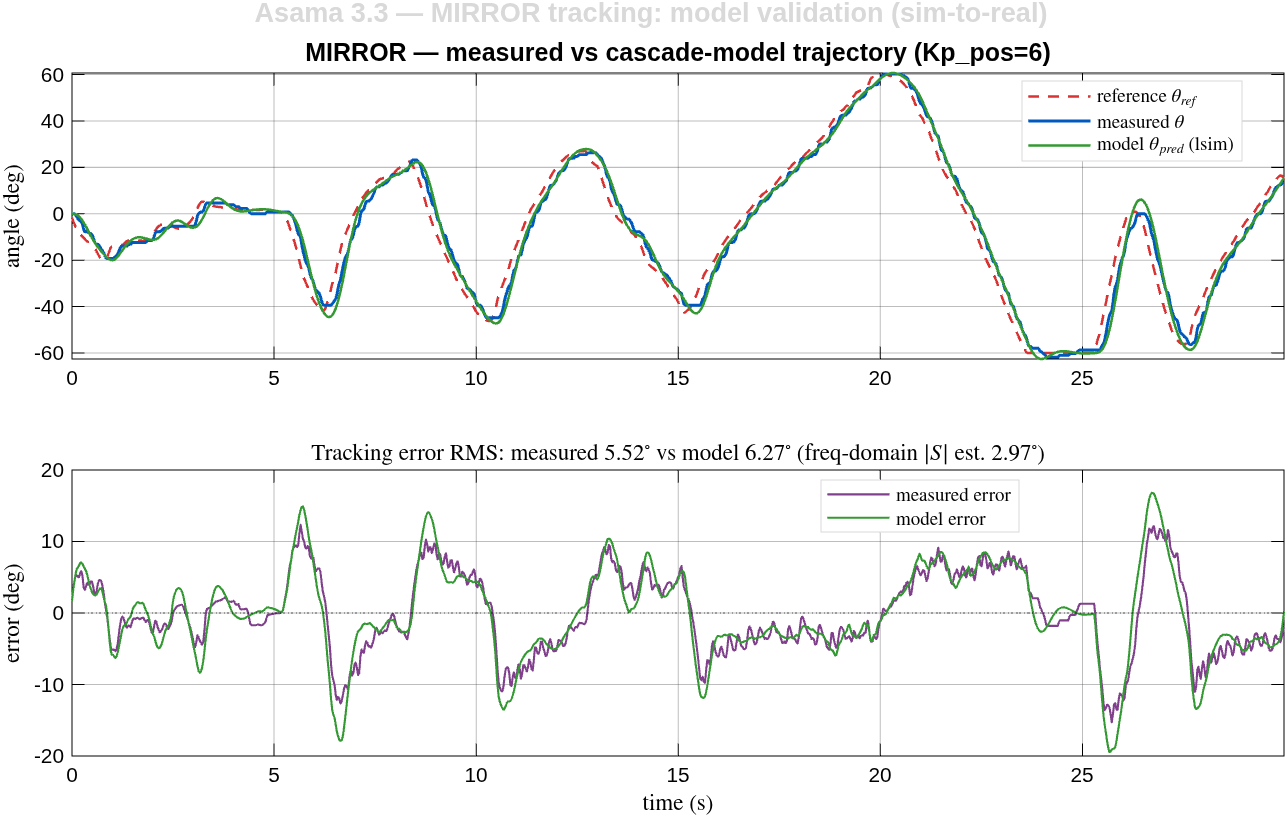
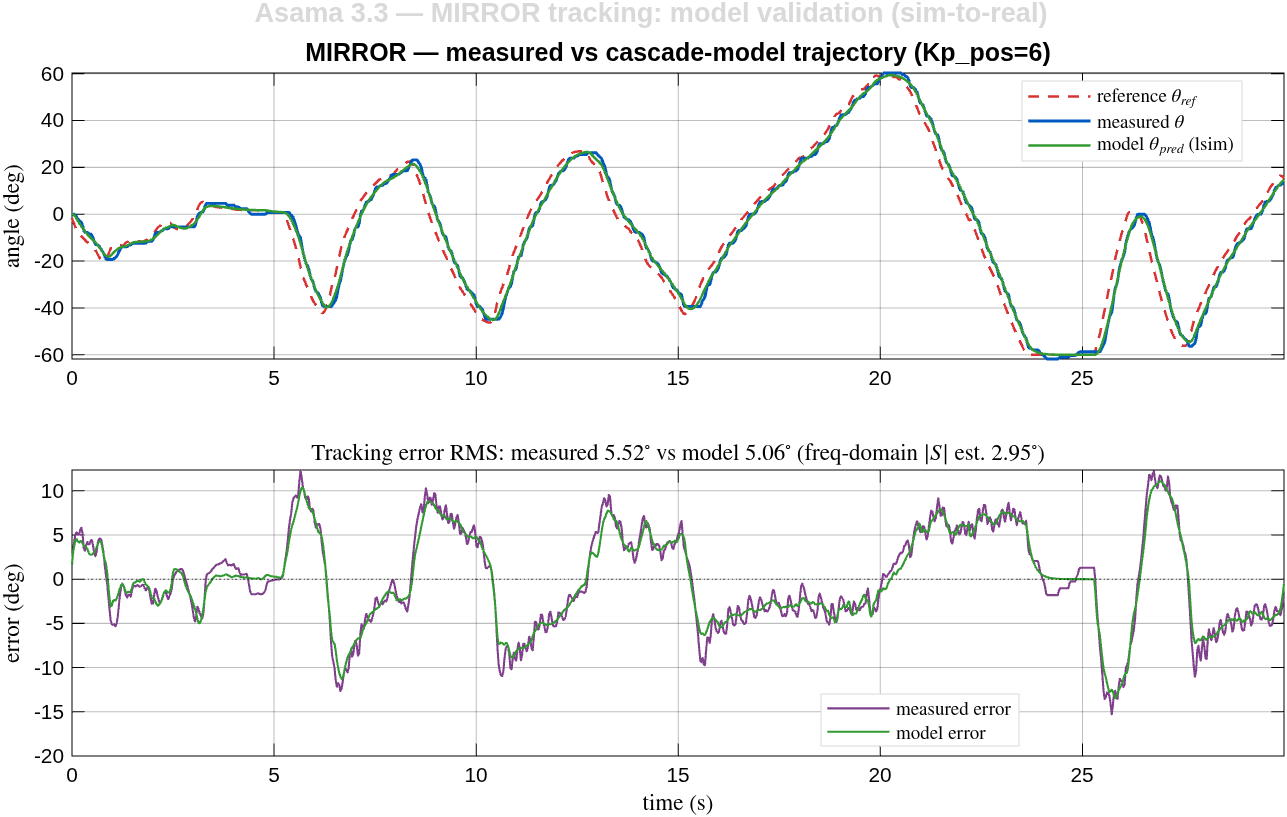
feat(3.8)+fix(3.3): gyro-FF (K2) 2-DOF tasarım/sim + iç-döngü Kg düzeltmesi (H1)
İş 2(a) — K2 gyro feedforward analitik tasarım + bozucu-reddi sim (donanımsız):
- design_gyro_feedforward.m: k_ff=redüktör=9.7 türetme (stabilizasyon: ω_ff=−9.7·gy);
  2-DOF reddi sensitivitesi S_fb=1/(1+L_out) vs S_ff=1−T_in vs FB+FF
- SONUÇ: reddi bant-genişliği FB 0.89 Hz → FB+FF 3.63 Hz = 4.1× (gyro-FF yavaş dış
  pozisyon-döngüsünü baypas eder, iç-döngü bandına ~23 rad/s çıkar). 2 Hz hızlı bozucuda
  residual 4× düşer; yavaş gerçek el-hareketinde FB zaten yeterli (dürüst)
- results/3_8_gyro_ff/: design + 2-DOF block diagram + params JSON
- Kaynak: [Franklin2010] §7.3 feedforward/2-DOF, [Hilkert2008] gimbal inertial-rate FF

fix(3.3): iç-döngü plant'ı K=53.89 (voltaj) yerine Kg=K·Vs=654.8 (duty) olmalı (Aşama 2.3
H1 düzeltmesi). K kullanımı iç-döngüyü 12× yavaşlatıyordu (ωn 33→9.4) → §12.4.4 sim-to-real
metrikleri hesap-artefaktıydı. Düzeltilmiş: MIRROR model 6.27→5.06° (ölçülen 5.52),
STAB 8.53→6.17° (ölçülen 6.66) — model ölçüleni ~%8 içinde alttan öngörür; "sürtünmesiz
model kötümser" yorumu kaldırıldı (artık fark = modellenmemiş kuantizasyon/gürültü).
analyze_mirror_stab.m + §12.4.4 + PROJE_DURUMU senkron.

diff --git a/matlab/asama_3_mimo_model/design_gyro_feedforward.m b/matlab/asama_3_mimo_model/design_gyro_feedforward.m
@@ -1,0 +1,232 @@
+function design_gyro_feedforward()
+% DESIGN_GYRO_FEEDFORWARD  Aşama 3.8 (K2) — gyro feedforward ANALİTİK tasarım + bozucu-reddi sim.
+%
+% Soru: gyro ile besleme-ileri (feedforward), cascade'in yavaş dış-döngüsünü baypas edip
+% base-hareketini ne kadar daha iyi reddeder? (deneme-yanılma DEĞİL — analitik + sim).
+%
+% ANALİTİK k_ff TÜRETİMİ (stabilizasyon görevi):
+%   payload eylemsiz açısı  φ = θ_base + θ_out   (θ_out = motor çıkış mili, base'e göre)
+%   Hedef φ=0  →  θ_out = −θ_base  (çıkış mili base'e TERS dönmeli)
+%   motor mili = 9.7 × çıkış mili (Pololu 25D redüktör 9.7:1, encoder.h)
+%   hız döngüsü MOTOR mili rad/s setpoint alır (Encoder_GetSpeed motor mili, ham)
+%   ⇒ ω_ff = −9.7 · (gy_dps·π/180)  [rad/s, motor mili]   ⇒   k_ff = redüktör = 9.7
+%
+% 2-DOF YAPI (bozucu-reddi sensitiviteleri, φ/θ_base):
+%   FB-yalnız:  S_fb  = 1/(1+L_out)         (bant ~ dış-döngü ωc, baskın çift ~6.2 rad/s)
+%   FF-yalnız:  S_ff  = 1 − T_inner          (bant ~ iç-döngü ~33 rad/s)   [ideal FF, k_ff tam]
+%   FB+FF:      S_both = S_fb · (1 − T_inner) (her iki çarpan küçük → en iyi reddi)
+%   → gyro-FF, reddi-bant-genişliğini iç-döngüye (~33) çıkarır = dış-döngüye (~6.2) göre ~5×.
+%
+% Kaynak: [Franklin2010] §7.3 (feedforward / 2-DOF), [Hilkert2008] (gimbal inertial rate FF — ISP).
+%         İç-döngü modeli [Aşama 2.1] K=53.89/τ=60.5ms, Kp_pos=6 [Aşama 2.7].
+% NOT: İdeal FF (k_ff tam, gyro gürültü/bias/gecikme yok) → analitik ÜST-SINIR. Gerçek gyro
+%      gürültüsü/biası bunu bir miktar bozar (Aşama 5 IMU-payload bench'inde doğrulanır).
+% Çalıştırma: matlab -batch "cd('matlab/asama_3_mimo_model'); design_gyro_feedforward"
+
+    here = fileparts(mfilename('fullpath'));
+    root = fullfile(here, '..', '..');
+    outdir = fullfile(here, 'results', '3_8_gyro_ff');
+    if ~exist(outdir, 'dir'), mkdir(outdir); end
+
+    set(groot, 'defaultFigureColor','w', 'defaultAxesColor','w', ...
+        'defaultAxesXColor','k', 'defaultAxesYColor','k', 'defaultTextColor','k', ...
+        'defaultAxesGridColor',[0.15 0.15 0.15], 'defaultAxesGridAlpha',0.3);
+
+    % ── cascade modeli (Aşama 2) ──
+    % DİKKAT: iç-döngü plant'ı DUTY-domeni: u(duty)→ω. Plant DC kazancı Kg=K·Vs=654.8
+    % (K=53.89 voltaj-domeni DEĞİL — Aşama 2.3 H1 düzeltmesi). Kp/Ki bu Kg için tasarlandı;
+    % K kullanılırsa iç-döngü 12× yavaş (ωn 33→9.4) çıkar → bant-genişliği analizi bozulur.
+    K=53.89; Vs=12.15; Kg=K*Vs; tau=0.0605; Kp_i=0.002; Ki_i=0.1; Kp_pos=6; gear=9.7;
+    G = tf(Kg,[tau 1]); C = pid(Kp_i,Ki_i);
+    T_inner = feedback(G*C,1);
+    P_outer = T_inner * tf(1,[1 0]);
+    L_outer = Kp_pos * P_outer;
+    T_out   = feedback(L_outer,1);
+
+    % ── bozucu-reddi sensitiviteleri (φ/θ_base) ──
+    S_fb   = feedback(1, L_outer);     % FB-yalnız
+    S_ff   = 1 - T_inner;              % FF-yalnız (ideal)
+    S_both = S_fb * (1 - T_inner);     % FB+FF
+    k_ff   = gear;
+
+    % ── reddi bant-genişlikleri (-3dB: |S| ilk kez 1/sqrt(2)'yi aşar) ──
+    fvec = logspace(-2, 2.3, 1000); w = 2*pi*fvec; thr = 1/sqrt(2);
+    m_fb   = squeeze(abs(freqresp(S_fb,   w)));
+    m_ff   = squeeze(abs(freqresp(S_ff,   w)));
+    m_both = squeeze(abs(freqresp(S_both, w)));
+    bw_fb   = first_cross(fvec, m_fb,   thr);
+    bw_ff   = first_cross(fvec, m_ff,   thr);
+    bw_both = first_cross(fvec, m_both, thr);
+
+    fprintf('\n=== Gyro-FF (K2) analitik tasarım ===\n');
+    fprintf('  k_ff = redüktör = %.1f (motor mili rad/s / çıkış mili rad/s)\n', k_ff);
+    fprintf('  Reddi bant-genişliği (-3dB):\n');
+    fprintf('    FB-yalnız  : %.2f Hz (%.1f rad/s)\n', bw_fb,   2*pi*bw_fb);
+    fprintf('    FF-yalnız  : %.2f Hz (%.1f rad/s)\n', bw_ff,   2*pi*bw_ff);
+    fprintf('    FB+FF      : %.2f Hz (%.1f rad/s)\n', bw_both, 2*pi*bw_both);
+    fprintf('    kazanım (FB+FF / FB) = %.1f×\n', bw_both/bw_fb);
+
+    % ── zaman-domeni bozucular ──
+    % (1) sentetik 2 Hz sinüs (hızlı panning / titreşim rejimi — FF'in parladığı yer)
+    A_syn = 10; f_syn = 2.0;
+    t1 = (0:0.001:3).';
+    base1 = A_syn*sin(2*pi*f_syn*t1);
+    phi1_fb   = lsim(S_fb,   base1, t1);
+    phi1_both = lsim(S_both, base1, t1);
+    rms1_fb   = rms_(phi1_fb);   rms1_both = rms_(phi1_both);
+
+    % (2) gerçek base-hareketi (stab bench fp(t) = el ile eğme)
+    stab = fullfile(root,'artifacts','3','stab_m2','20260612_121945','raw','data.csv');
+    have_real = isfile(stab);
+    if have_real
+        T = readtable(stab); tr_ = T.t; fp_ = T.fp - mean(T.fp);
+        dt = median(diff(tr_)); t2 = (tr_(1):dt:tr_(end)).';
+        base2 = interp1(tr_, fp_, t2, 'linear');
+        phi2_fb   = lsim(S_fb,   base2, t2);
+        phi2_both = lsim(S_both, base2, t2);
+        rms2_fb = rms_(phi2_fb); rms2_both = rms_(phi2_both);
+        f_dom2 = dominant_freq(base2, dt);
+    end
+
+    % ── RMS payload hatası vs bozucu frekansı (A_base=10°) ──
+    A_b = 10; rms_fb_f = m_fb*A_b/sqrt(2); rms_both_f = m_both*A_b/sqrt(2);
+
+    % ================= FİGÜR 1: tasarım & kazanım =================
+    f = figure('Position',[40 40 1180 760],'Color','w','Visible','off');
+
+    subplot(2,2,1); hold on; grid on; box on;
+    plot(fvec, 20*log10(m_fb),   'LineWidth',1.6,'Color',[0.0 0.35 0.75],'DisplayName','FB only  $S=1/(1+L_{out})$');
+    plot(fvec, 20*log10(m_ff),   'LineWidth',1.4,'Color',[0.85 0.5 0.1],'DisplayName','FF only  $1-T_{in}$');
+    plot(fvec, 20*log10(m_both), 'LineWidth',1.8,'Color',[0.15 0.6 0.15],'DisplayName','FB + FF');
+    yline(20*log10(thr),'k:','-3 dB','HandleVisibility','off');
+    set(gca,'XScale','log'); xlabel('disturbance freq (Hz)','Interpreter','latex');
+    ylabel('$|\phi / \theta_{base}|$ (dB)','Interpreter','latex'); ylim([-60 6]);
+    title('Disturbance-rejection sensitivity (lower = better)','Interpreter','latex','FontSize',11);
+    lg=legend('Interpreter','latex','Location','southeast'); set(lg,'Color','w','TextColor','k');
+
+    subplot(2,2,2); hold on; grid on; box on;
+    plot(fvec, rms_fb_f,   'LineWidth',1.6,'Color',[0.0 0.35 0.75],'DisplayName','FB only');
+    plot(fvec, rms_both_f, 'LineWidth',1.8,'Color',[0.15 0.6 0.15],'DisplayName','FB + FF');
+    xline(bw_fb,':','HandleVisibility','off','Color',[0.0 0.35 0.75]);
+    xline(bw_both,':','HandleVisibility','off','Color',[0.15 0.6 0.15]);
+    set(gca,'XScale','log'); xlabel('disturbance freq (Hz)','Interpreter','latex');
+    ylabel('payload error RMS (deg)','Interpreter','latex');
+    title(sprintf('Residual payload error vs freq ($A_{base}=%d^\\circ$) -- rej. BW %.2f$\\to$%.2f Hz', A_b, bw_fb, bw_both),'Interpreter','latex','FontSize',11);
+    lg=legend('Interpreter','latex','Location','northwest'); set(lg,'Color','w','TextColor','k');
+
+    subplot(2,2,3); hold on; grid on; box on;
+    plot(t1, base1,     '--','LineWidth',1.0,'Color',[0.55 0.55 0.55],'DisplayName','base motion');
+    plot(t1, phi1_fb,   '-', 'LineWidth',1.4,'Color',[0.0 0.35 0.75],'DisplayName',sprintf('FB only (RMS %.2f$^\\circ$)',rms1_fb));
+    plot(t1, phi1_both, '-', 'LineWidth',1.6,'Color',[0.15 0.6 0.15],'DisplayName',sprintf('FB+FF (RMS %.2f$^\\circ$)',rms1_both));
+    xlabel('time (s)','Interpreter','latex'); ylabel('payload $\phi$ (deg)','Interpreter','latex');
+    title(sprintf('Fast disturbance %g Hz, $%d^\\circ$ -- FF cuts residual %.0f$\\times$',f_syn,A_syn, rms1_fb/max(rms1_both,1e-9)),'Interpreter','latex','FontSize',11);
+    lg=legend('Interpreter','latex','Location','northeast'); set(lg,'Color','w','TextColor','k'); xlim([0 2]);
+
+    subplot(2,2,4); hold on; grid on; box on;
+    if have_real
+        plot(t2, base2,     '--','LineWidth',0.9,'Color',[0.55 0.55 0.55],'DisplayName','real base (IMU)');
+        plot(t2, phi2_fb,   '-', 'LineWidth',1.3,'Color',[0.0 0.35 0.75],'DisplayName',sprintf('FB only (RMS %.2f$^\\circ$)',rms2_fb));
+        plot(t2, phi2_both, '-', 'LineWidth',1.5,'Color',[0.15 0.6 0.15],'DisplayName',sprintf('FB+FF (RMS %.2f$^\\circ$)',rms2_both));
+        xlabel('time (s)','Interpreter','latex'); ylabel('payload $\phi$ (deg)','Interpreter','latex');
+        title(sprintf('Real bench base motion (dom. %.2f Hz, slow) -- FB already good',f_dom2),'Interpreter','latex','FontSize',11);
+        lg=legend('Interpreter','latex','Location','best'); set(lg,'Color','w','TextColor','k'); xlim([t2(1) t2(end)]);
+    end
+
+    sgtitle(sprintf('Asama 3.8 (K2) -- Gyro Feedforward: rejection BW %.2f$\\to$%.2f Hz (%.1f$\\times$), $k_{ff}=%.1f$', bw_fb, bw_both, bw_both/bw_fb, k_ff),'Interpreter','latex','FontSize',13,'FontWeight','bold');
+    exportgraphics(f, fullfile(outdir,'gyro_ff_design.png'),'Resolution',150);
+    close(f);
+
+    % ================= FİGÜR 2: 2-DOF blok diyagram =================
+    fig_block(outdir, k_ff, Kp_pos);
+
+    % ── JSON ──
+    rec = struct('k_ff', k_ff, 'gear_ratio', gear, ...
+        'bw_fb_hz', round(bw_fb,3), 'bw_ff_hz', round(bw_ff,3), 'bw_both_hz', round(bw_both,3), ...
+        'bw_gain_factor', round(bw_both/bw_fb,2), ...
+        'inner_wn_radps', 33, 'outer_dominant_radps', 6.2, ...
+        'syn_2hz_rms_fb_deg', round(rms1_fb,3), 'syn_2hz_rms_both_deg', round(rms1_both,3), ...
+        'kaynak', {{'Franklin2010 §7.3','Hilkert2008'}});
+    if have_real
+        rec.real_rms_fb_deg = round(rms2_fb,3);
+        rec.real_rms_both_deg = round(rms2_both,3);
+        rec.real_dominant_freq_hz = round(f_dom2,3);
+    end
+    fid=fopen(fullfile(outdir,'gyro_ff_params.json'),'w');
+    fwrite(fid, jsonencode(rec,'PrettyPrint',true),'char'); fclose(fid);
+    fprintf('\nÇıktı: %s/ (gyro_ff_design.png + gyro_ff_block.png + .json)\n', outdir);
+end
+
+% ====================================================================
+function fc = first_cross(f, mag, thr)
+    idx = find(mag >= thr, 1, 'first');
+    if isempty(idx) || idx==1, fc = f(max(idx,1)); return; end
+    % lineer interp (log-f) köşe frekansı
+    f1=f(idx-1); f2=f(idx); m1=mag(idx-1); m2=mag(idx);
+    fc = f1 + (thr-m1)/(m2-m1)*(f2-f1);
+end
+
+function r = rms_(x), r = sqrt(mean(x.^2)); end
+
+function fd = dominant_freq(x, dt)
+    N=numel(x); Y=abs(fft(x-mean(x))); Y=Y(1:floor(N/2));
+    fax=(0:floor(N/2)-1).'*(1/dt/N); [~,ip]=max(Y(2:end)); fd=fax(ip+1);
+end
+
+% ====================================================================
+function fig_block(outdir, k_ff, Kp_pos)
+% 2-DOF: gyro θ̇_base → −k_ff → hız-setpoint toplamı; cascade FB θ_ref → P_pos → toplam → PI → motor.
+    f = figure('Position',[60 60 1180 440],'Color','w','Visible','off');
+    ax = axes('Position',[0 0 1 1]); hold(ax,'on'); axis(ax,[0 13 0 4.6]); axis(ax,'off');
+    cC=[0.92 0.95 1.0]; cM=[0.90 1.0 0.88]; cF=[1.0 0.93 0.80];
+    ym=2.3;
+    % FB zinciri
+    text(0.10,ym+0.32,'$\theta_{ref}$','Interpreter','latex','FontSize',12);
+    draw_arrow(0.10,ym,1.0,ym);
+    draw_sum(1.3,ym); text(1.05,ym-0.46,'$-$','Interpreter','latex','FontSize',12);
+    draw_arrow(1.55,ym,2.3,ym);
+    draw_block(3.0,ym,1.4,0.95,'$P_{pos}$',cC); text(3.0,ym-0.74,sprintf('$K_{p,pos}=%g$',Kp_pos),'Interpreter','latex','FontSize',8.5,'HorizontalAlignment','center');
+    draw_arrow(3.7,ym,4.6,ym);
+    draw_sum(4.85,ym); text(5.15,ym+0.42,'$+$','Interpreter','latex','FontSize',12);
+    text(4.30,ym+0.34,'$\omega_{ref}$','Interpreter','latex','FontSize',10);
+    draw_arrow(5.1,ym,5.9,ym);
+    draw_block(6.6,ym,1.4,0.95,'PI',cC); text(6.6,ym-0.74,'SpeedPI','FontSize',8.5,'HorizontalAlignment','center');
+    draw_arrow(7.3,ym,8.2,ym); text(7.45,ym+0.32,'$u$','Interpreter','latex','FontSize',10);
+    draw_block(8.95,ym,1.5,0.95,'motor',cM); text(8.95,ym-0.74,'TB6612 / plant','FontSize',8.5,'HorizontalAlignment','center');
+    draw_arrow(9.7,ym,11.6,ym); text(10.5,ym+0.32,'$\theta_{out}$','Interpreter','latex','FontSize',11);
+    % FB geri besleme
+    plot([11.2 11.2],[ym ym-1.0],'k','LineWidth',1.2);
+    plot([11.2 1.3],[ym-1.0 ym-1.0],'k','LineWidth',1.2);
+    draw_arrow(1.3,ym-1.0,1.3,ym-0.25);
+    text(6.0,ym-1.0+0.16,'encoder position feedback','FontSize',8.5,'HorizontalAlignment','center');
+    % FF yolu (gyro → −k_ff → speed-setpoint sum), −k_ff sum'ın TAM ÜSTÜNDE
+    yf=3.65;
+    draw_block(2.5,yf,1.8,0.9,'IMU gyro',cF);
+    draw_arrow(3.4,yf,4.15,yf); text(3.55,yf+0.30,'$\dot{\theta}_{base}$','Interpreter','latex','FontSize',11);
+    draw_block(4.85,yf,1.3,0.9,'$-k_{ff}$',cF); text(4.85,yf-0.62,sprintf('$k_{ff}=%.1f$ (gear)',k_ff),'Interpreter','latex','FontSize',8.5,'HorizontalAlignment','center');
+    draw_arrow(4.85,yf-0.45,4.85,ym+0.25);   % düz aşağı, sum'a
+    text(7.6,yf+0.10,'gyro feedforward (2-DOF): bypasses slow outer loop','FontSize',9.5,'HorizontalAlignment','center','Color',[0.6 0.4 0.1]);
+
+    str=['Stabilization: $\omega_{ref} = K_{p,pos}(\theta_{ref}-\theta_{out}) - k_{ff}\,\dot{\theta}_{base}$,' ...
+         '\quad $k_{ff}=$ gear $=9.7$ (motor/output shaft).'];
+    text(6.5,0.40,str,'Interpreter','latex','FontSize',11,'HorizontalAlignment','center', ...
+        'BackgroundColor',[0.97 0.97 0.9],'EdgeColor',[0.7 0.7 0.7],'Margin',5);
+    title(ax,'2-DOF Gyro Feedforward + Cascade Feedback','FontSize',13,'FontWeight','bold');
+    exportgraphics(f, fullfile(outdir,'gyro_ff_block.png'),'Resolution',150);
+    close(f);
+end
+
+% ── çizim helper'ları ──
+function draw_block(cx,cy,w,h,label,fc)
+    rectangle('Position',[cx-w/2,cy-h/2,w,h],'FaceColor',fc,'EdgeColor','k','LineWidth',1.4,'Curvature',0.1);
+    text(cx,cy,label,'HorizontalAlignment','center','VerticalAlignment','middle','FontSize',13,'Interpreter','latex');
+end
+function draw_sum(cx,cy)
+    r=0.22; th=linspace(0,2*pi,40);
+    plot(cx+r*cos(th),cy+r*sin(th),'k','LineWidth',1.3);
+end
+function draw_arrow(x1,y1,x2,y2)
+    plot([x1 x2],[y1 y2],'k','LineWidth',1.2);
+    a=atan2(y2-y1,x2-x1); L=0.18; d=0.38;
+    plot([x2 x2-L*cos(a-d)],[y2 y2-L*sin(a-d)],'k','LineWidth',1.2);
+    plot([x2 x2-L*cos(a+d)],[y2 y2-L*sin(a+d)],'k','LineWidth',1.2);
+end

diff --git a/matlab/asama_3_mimo_model/analyze_mirror_stab.m b/matlab/asama_3_mimo_model/analyze_mirror_stab.m
@@ -26,8 +26,10 @@ function analyze_mirror_stab()
         'defaultAxesGridColor',[0.15 0.15 0.15], 'defaultAxesGridAlpha',0.3);
 
     % ── cascade kapalı-döngü modeli (Aşama 2 parametreleri) ──
-    K=53.89; tau=0.0605; Kp_i=0.002; Ki_i=0.1; Kp_pos=6;
-    G = tf(K,[tau 1]); C = pid(Kp_i,Ki_i);
+    % İç-döngü plant'ı DUTY-domeni: u(duty)→ω, DC kazancı Kg=K·Vs=654.8 (Aşama 2.3 H1
+    % düzeltmesi — K=53.89 voltaj-domeni DEĞİL; K kullanılırsa iç-döngü 12× yavaş ωn 33→9.4).
+    K=53.89; Vs=12.15; Kg=K*Vs; tau=0.0605; Kp_i=0.002; Ki_i=0.1; Kp_pos=6;
+    G = tf(Kg,[tau 1]); C = pid(Kp_i,Ki_i);
     T_inner = feedback(G*C,1);
     P_outer = T_inner * tf(1,[1 0]);
     L = Kp_pos * P_outer;

diff --git a/docs/asama_3_mimo_model.md b/docs/asama_3_mimo_model.md
@@ -206,32 +206,37 @@ olduğundan kapalı-çevrim $T(s)$ ölçülen referansı süzer ([Franklin2010] 
 
 $$T(s) = \frac{L(s)}{1 + L(s)}, \qquad L(s) = K_{p,pos}\,T_{ic}(s)\,\frac{1}{s}, \quad K_{p,pos}=6,$$
 
-burada $T_{ic}(s)$ iç hız-döngüsünün kapalı-çevrimi (DC kazancı $1$; $K=53{,}89$, $\tau=60{,}5$ ms).
-Kapalı-çevrim kutupları $\lbrace -13{,}9,\ -2{,}21 \pm 5{,}80j \rbrace$ — kararlı, baskın çift
-$\approx 6{,}2$ rad/s. Ölçülen referans $\theta_{ref}(t)$ bu modele `lsim` ile verilip
+burada $T_{ic}(s)$ iç hız-döngüsünün kapalı-çevrimidir (DC kazancı $1$). İç-döngü plant'ı
+**duty-domeni**dir: kazanç $K_g = K\cdot V_s = 654{,}8$ rad/s/duty (Aşama 2.3 **H1 düzeltmesi** —
+voltaj-domeni $K=53{,}89$ DEĞİL; voltaj-gain kullanılırsa iç-döngü 12× yavaş, $\omega_n$ 33→9.4'e
+düşer). Kapalı-çevrim kutupları $\lbrace -6{,}44,\ -15{,}9 \pm 27{,}5j \rbrace$ — baskın (yavaş)
+kutup $-6{,}44$ (dış-döngü, $\approx 6{,}4$ rad/s), hızlı çift $\approx 31$ rad/s (iç-döngü,
+$\omega_n\approx 33$ ile uyumlu). Ölçülen referans $\theta_{ref}(t)$ bu modele `lsim` ile verilip
 $\theta_{pred}$ üretildi.
 
 | Mod | Ölçülen RMS | Model RMS (`lsim`) | Tek-ton $\lvert S\rvert$ alt-sınır |
 |---|---|---|---|
-| MIRROR | $5{,}52^\circ$ | $6{,}27^\circ$ | $2{,}97^\circ$ |
-| STAB | $6{,}66^\circ$ | $8{,}53^\circ$ | $1{,}35^\circ$ |
+| MIRROR | $5{,}52^\circ$ | $5{,}06^\circ$ | $2{,}95^\circ$ |
+| STAB | $6{,}66^\circ$ | $6{,}17^\circ$ | $1{,}35^\circ$ |
 
 ![Mirror sim-to-real — ölçülen vs cascade modeli](../matlab/asama_3_mimo_model/results/3_3_bench/mirror_model_validation.png)
 
 > 📊 **Üreten betik:** `matlab/asama_3_mimo_model/analyze_mirror_stab.m`
 > **Şekil 12.5** — Cascade modeli (yeşil) gerçek motor trajektorisini (mavi) neredeyse birebir
-> üretir; her ikisi de referansı (kırmızı) küçük gecikmeyle izler. Alt: model-hatası ölçülen-hatayı
-> sarar, hızlı dönüşlerde ($t \approx 6, 10, 26$ s) biraz **fazla** tahmin eder.
+> üretir; her ikisi de referansı (kırmızı) küçük gecikmeyle izler. Alt: model-hatası (yeşil)
+> ölçülen-hatayı (mor) sıkı izler; ölçülende ek **yüksek-frekans jitter** görülür (modellenmemiş
+> encoder kuantizasyonu + gyro/referans gürültüsü).
 
-**Yorum.** Ölçülen RMS iki analitik sınır arasında **kuşatılır**: tek baskın-ton
-$\lvert S(j\omega)\rvert$ tahmini (yavaş bileşen, $\sim 3^\circ$) alttan, tam-spektrum `lsim`
-modeli ($\sim 6$–$8{,}5^\circ$) üstten. Tek-ton tahmini iyimserdir çünkü el hareketinin
-geniş-bantlı yüksek-frekans bileşenlerini atar; `lsim` tüm spektrumu görür. Model **biraz
-kötümser** (hızlı dönüşlerde ölçülenden büyük hata) — bu, sürtünmesiz lineer modelin
-kötümserliği olup Aşama 2.6.5'teki "sürtünme limit-cycle'ı söndürür / kararlı-hâl takibini
-keskinleştirir" bulgusuyla **tutarlıdır** ([Ljung1999] §16, model-doğrulama). Sonuç: takip
-hatası cascade bant-genişliği + referans spektrumuyla **kestirilebilir**; gerçek motor, sürtünme
-katkısıyla model üst-sınırının biraz altında performans verir.
+**Yorum.** Tam-spektrum `lsim` modeli ölçülen RMS'i **yaklaşık %8 içinde**, hafifçe **alttan**
+öngörür (MIRROR 5,06° vs 5,52°; STAB 6,17° vs 6,66°) — el hareketinin geniş-bant spektrumunu
+gördüğü için ölçülene çok yakın. Tek baskın-ton $\lvert S(j\omega)\rvert$ tahmini ($\sim 3^\circ$)
+yalnız en yavaş bileşeni aldığından **iyimser alt-sınırdır** (geniş-bant jitter'ı atar). Model ile
+ölçülen arasındaki küçük artık fark ($\approx 0{,}5^\circ$) modele girmeyen gerçek etkilere
+yorulur: encoder hız kuantizasyonu ($\approx 18{,}7$ rad/s/count, §12.6 açık konu), gyro/referans
+gürültüsü ve sensör gecikmesi — bunlar hatayı **artırır** (azaltmaz). Sonuç: tek-eksen takip hatası
+cascade bant-genişliği + referans spektrumuyla **kestirilebilir** (yaklaşık yüzde 8 doğruluk); kalan
+fark modellenmemiş ölçüm gürültüsüdür ([Ljung1999] §16, model-doğrulama: artık = modellenmemiş
+dinamik + gürültü).
 
 #### 12.4.5. K0 değerlendirmesi & sonraki basamak
 

diff --git a/matlab/asama_3_mimo_model/README.md b/matlab/asama_3_mimo_model/README.md
@@ -19,6 +19,14 @@
 > Derin anlatı: [`../../docs/asama_3_mimo_model.md`](../../docs/asama_3_mimo_model.md) §12.4 (K0 kapanışı).
 > Tümünü üret: `matlab -batch "cd('matlab/asama_3_mimo_model'); create_axis_architecture_diagram; plot_bench_results; analyze_mirror_stab"`
 
+### K2 gyro feedforward (3.8, ✅ tasarım+sim — donanımsız)
+
+| Script | Amaç | Çıktı | Durum |
+|---|---|---|---|
+| `design_gyro_feedforward.m` | Analitik $k_{ff}=$ redüktör $=9.7$ türetme; 2-DOF bozucu-reddi: $S_{fb}=1/(1+L_{out})$ vs $S_{ff}=1-T_{in}$ vs FB+FF; reddi-bant 0.89→3.63 Hz (**4.1×**); zaman-domeni (2 Hz sentetik + gerçek base) | `results/3_8_gyro_ff/` (design + block PNG + JSON) | ✅ tasarım/sim (firmware bekliyor) |
+
+> ⚠ İç-döngü plant'ı **duty-domeni** $K_g=K\cdot V_s=654.8$ kullanılmalı (Aşama 2.3 H1 — voltaj $K=53.89$ değil); `analyze_mirror_stab.m` de bu konvansiyona göre düzeltildi.
+
 ### MIMO ID (3.4–3.5, planlı — iki sağlam eksen gelince)
 
 | Script | Amaç | Durum |

diff --git a/PROJE_DURUMU.md b/PROJE_DURUMU.md
@@ -4,7 +4,7 @@
 
 **Vizyon:** Tek motor model ✅ → tek motor kontrol ✅ → iki motor MIMO → iki motor LQG/Kalman → gerçek 3D-print gimbal. MATLAB paralel araç, firmware C/STM32Cube HAL bare-metal. Her teknik karar **kaynaklı** (`KAYNAKCA.md` etiketli).
 
-**Şu an:** 🟡 **Aşama 3 (MIMO) AÇIK** (`feature/asama-3-mimo-model`, 2026-06-09). **3.1 pin planı ✅ onaylı + kablolama tamam; 3.2a encoder-2 bench PASS** (`artifacts/3/enc2_test/`); IMU kendini-iyileştirme firmware. **3.2b ✅ PASS** (motor-2 ±0.30'da +1203/−1199 count/s, polarite AYNI → cascade işaret çevirme YOK). **3.3 eksen-mimarisi firmware ✅** (2026-06-11, `9def197`): instance-based refactor — `g_axis[2]`, cascade/MIRROR **eksen-1'de (motor-2) bugün kullanılabilir** (`MODE2:`/`POS_DEG2:`/`KPP2:`…), motor-2 stall kazandı, telemetri +`OMEGA2/SP2/TR2` (eski script'ler korunur); 21-ajan adversarial davranış-denetimi geçti (3 gerçek fark → 2 düzeltildi, 1 bilinçli kabul). **⚠ Motor-1 ünitesi kurtarılamaz** (CW sert mekanik catch — motor-içi; tork 0.8'e kadar + gearbox-çıkarma + dislodge denendi, çözmedi; CCW kusursuz). **Karar (2026-06-11): redüktörsüz yedek siparişte** (sağlam gearbox ona takılacak); gelene kadar **proje tek sağlam motor (motor-2 ekseni) üzerinden tamamlanır**, yeni motor tak-çalıştır entegre. **3.3 bench tamamlandı (2026-06-12, tek sağlam motor=motor-2):** `MODE2:POS` cascade 6/6 PASS (ss_err<1°, Test 2.5 ile birebir); `MODE2:MIRROR` takip RMS 5.53°; **`MODE2:STAB` stabilizasyon — motor IMU eğimine TERS döndü (yasa demoland, corr(pitch,θ)=−0.95), RMS 6.72°.** **K0 (decentralized cascade) AKADEMİK KAPANIŞ (2026-06-12):** docs §12.4 ders-kitabı bölümü + MATLAB tez-grafikleri (eksen-mimari decentralized $K(s)$, cascade/mirror/stab, sim-to-real model doğrulama) — takip RMS cascade modeliyle **kuşatıldı** (mirror ölçülen 5.52° vs `lsim` model 6.27°; sürtünmesiz model kötümser, Aşama 2.6.5 ile tutarlı). IMU uyku sorunu jumper bağlantıyla çözüldü + firmware sertleştirildi (uyku auto-wake + non-blocking init, `94a36e3`). ⚠ Tam eylemsiz stabilizasyon doğrulaması IMU payload'a taşınınca = Aşama 5. **Sıradaki: yeni motor (redüktörsüz, siparişte) gelince eksen-0 entegrasyon → 3.4 MIMO ID** (iki sağlam eksen). Aşama-2-sonrası paket main'de (`512e796`): mirror Kp_pos=6 gerçek 4.02°, amper bütçesi datasheet denetimi (3A yeterli, dar boğaz=sürücü), **count-tabanlı stall fix bench PASS** (yanlış-pozitif 0, oto-devam ~1 sn — 2A.T5-B kapandı), IMUDIAG/IMUINIT teşhis komutları. Önceki: ✅ Aşama 1+2 KAPALI (`asama-2-kapali` tag). Aşama 1: `K=53.89 rad/s/V, τ_median=60.5 ms, V_dead≈0, V_supply=12.15V`. Aşama 2.1: 5 kontrolcü tasarım. Aşama 2.2: firmware Tustin PI + anti-windup + MODE/SP_W komutları.
+**Şu an:** 🟡 **Aşama 3 (MIMO) AÇIK** (`feature/asama-3-mimo-model`, 2026-06-09). **3.1 pin planı ✅ onaylı + kablolama tamam; 3.2a encoder-2 bench PASS** (`artifacts/3/enc2_test/`); IMU kendini-iyileştirme firmware. **3.2b ✅ PASS** (motor-2 ±0.30'da +1203/−1199 count/s, polarite AYNI → cascade işaret çevirme YOK). **3.3 eksen-mimarisi firmware ✅** (2026-06-11, `9def197`): instance-based refactor — `g_axis[2]`, cascade/MIRROR **eksen-1'de (motor-2) bugün kullanılabilir** (`MODE2:`/`POS_DEG2:`/`KPP2:`…), motor-2 stall kazandı, telemetri +`OMEGA2/SP2/TR2` (eski script'ler korunur); 21-ajan adversarial davranış-denetimi geçti (3 gerçek fark → 2 düzeltildi, 1 bilinçli kabul). **⚠ Motor-1 ünitesi kurtarılamaz** (CW sert mekanik catch — motor-içi; tork 0.8'e kadar + gearbox-çıkarma + dislodge denendi, çözmedi; CCW kusursuz). **Karar (2026-06-11): redüktörsüz yedek siparişte** (sağlam gearbox ona takılacak); gelene kadar **proje tek sağlam motor (motor-2 ekseni) üzerinden tamamlanır**, yeni motor tak-çalıştır entegre. **3.3 bench tamamlandı (2026-06-12, tek sağlam motor=motor-2):** `MODE2:POS` cascade 6/6 PASS (ss_err<1°, Test 2.5 ile birebir); `MODE2:MIRROR` takip RMS 5.53°; **`MODE2:STAB` stabilizasyon — motor IMU eğimine TERS döndü (yasa demoland, corr(pitch,θ)=−0.95), RMS 6.72°.** **K0 (decentralized cascade) AKADEMİK KAPANIŞ (2026-06-12):** docs §12.4 ders-kitabı bölümü + MATLAB tez-grafikleri (eksen-mimari decentralized $K(s)$, cascade/mirror/stab, sim-to-real model doğrulama) — takip RMS cascade modeliyle **yaklaşık %8 içinde** öngörüldü (mirror ölçülen 5.52° vs `lsim` model 5.06°, hafif alttan; kalan fark modellenmemiş encoder kuantizasyonu+gyro gürültüsü. İç-döngü plant'ı duty-domeni Kg=654.8 — H1 düzeltmesi). IMU uyku sorunu jumper bağlantıyla çözüldü + firmware sertleştirildi (uyku auto-wake + non-blocking init, `94a36e3`). ⚠ Tam eylemsiz stabilizasyon doğrulaması IMU payload'a taşınınca = Aşama 5. **Sıradaki: yeni motor (redüktörsüz, siparişte) gelince eksen-0 entegrasyon → 3.4 MIMO ID** (iki sağlam eksen). Aşama-2-sonrası paket main'de (`512e796`): mirror Kp_pos=6 gerçek 4.02°, amper bütçesi datasheet denetimi (3A yeterli, dar boğaz=sürücü), **count-tabanlı stall fix bench PASS** (yanlış-pozitif 0, oto-devam ~1 sn — 2A.T5-B kapandı), IMUDIAG/IMUINIT teşhis komutları. Önceki: ✅ Aşama 1+2 KAPALI (`asama-2-kapali` tag). Aşama 1: `K=53.89 rad/s/V, τ_median=60.5 ms, V_dead≈0, V_supply=12.15V`. Aşama 2.1: 5 kontrolcü tasarım. Aşama 2.2: firmware Tustin PI + anti-windup + MODE/SP_W komutları.
 
 **Aşama 2.3 BÜYÜK BULGU (sim-to-real gap):** Conservative kazanç (Kp=0.1163) gerçek motorda **bang-bang limit cycle** verdi. Kök neden: 2.1'in İKİ analitik hatası — (H1) yanlış plant (K=53.89 yerine Kg=K·Vs=654.8, 12×), (H2) doyum kısıtı yok sayıldı (P-terimi e=4.3 rad/s'te doyar). **Analitik düzeltme: doyum-kısıtı (Kp≈duty_max/ω_max=0.002) + doğru-plant pole placement (ω_n=2/τ=33 → Ki=0.1), §11.11.3.** 2b: gerçekçi Simulink + ayrık margin (PM=40°) doğruladı. Test 2.T2 PASS (8/8 step).
 